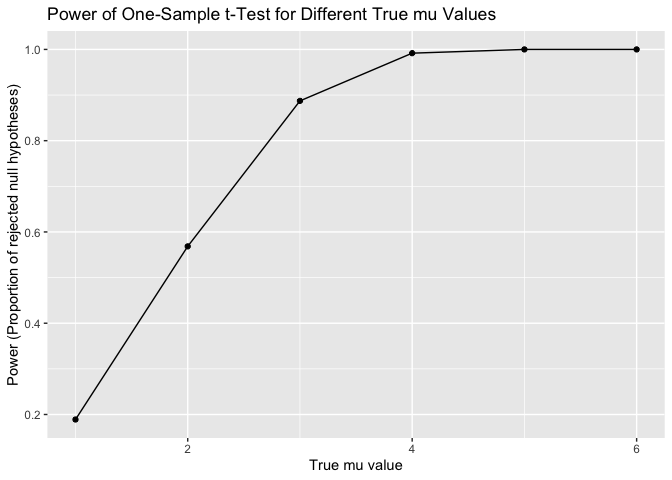
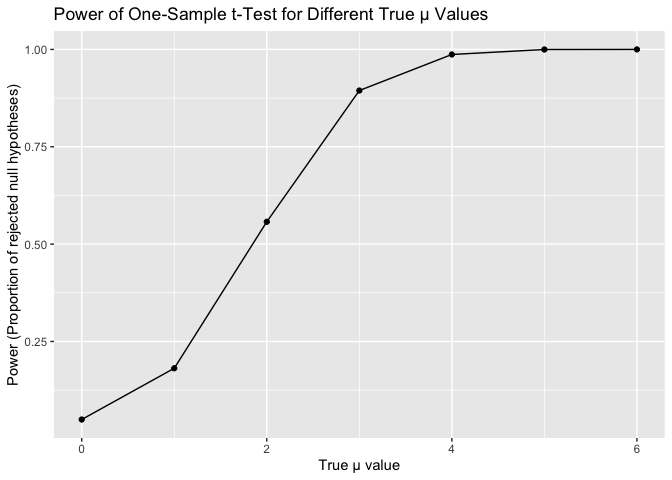
updata explaination for the last question

diff --git a/Homework5.md b/Homework5.md
@@ -264,7 +264,7 @@ power
 
 ``` r
 # Set parameters
-mu_v<-1:6
+mu_v<-0:6
 # Repeat
 results <- map_dfr(mu_v, function(mu) {
   tibble(
@@ -286,8 +286,8 @@ power_by_mu <-
 ggplot(power_by_mu, aes(x = mu, y = power)) +
   geom_line() +
   geom_point() +
-  labs(x = "True mu value", y = "Power (Proportion of rejected null hypotheses)") +
-  ggtitle("Power of One-Sample t-Test for Different True mu Values")
+  labs(x = "True μ value", y = "Power (Proportion of rejected null hypotheses)") +
+  ggtitle("Power of One-Sample t-Test for Different True μ Values")
 ```
 
 ![](Homework5_files/figure-gfm/unnamed-chunk-7-1.png)<!-- -->
@@ -316,14 +316,20 @@ ggplot(combined_data, aes(x = mu)) +
   geom_point(aes(y = avg_estimate, color = "All Samples")) +
   geom_line(aes(y = avg_estimate_rejected, color = "Rejected Null")) +
   geom_point(aes(y = avg_estimate_rejected, color = "Rejected Null")) +
-  labs(x = "True mu value", y = "Average Estimate of mu_hat") +
+  labs(x = "True μ value", y = "Average Estimate of μ̂") +
   scale_color_manual(values = c("All Samples" = "blue", "Rejected Null" = "red")) +
-  ggtitle("Average Estimate of *mu for Different True mu Values")
+  ggtitle("Average Estimate of for μ̂ Different True μ Values")
 ```
 
 ![](Homework5_files/figure-gfm/unnamed-chunk-8-1.png)<!-- -->
 
 The sample average of $\mu$ across tests for which the null is rejected
-is **not** approximately equal to the true value of $\mu$ due to the
-inherent randomness and variability present in sampling and statistical
-inference.
+is approximately equal to the true value of $\mu$ when $\mu$
+increases.The reason why this is the case is the following: When true
+population mean ($\mu=0$),both the overall average estimate $hat{\mu}$
+and the rejected group’s are expected to center around zero. when true
+population mean ($\mu$) increases, the actual mean of the population is
+farther away from the null hypothesis value,so the likelihood of
+rejecting the null hypothesis will increases. That means the average
+estimate of μ̂ only in samples for which the null was rejected will move
+closer to the true population mean.
